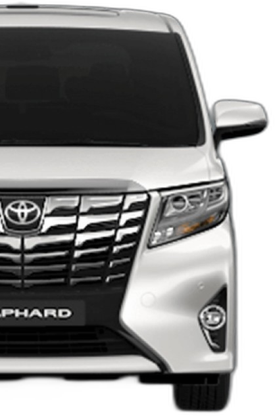
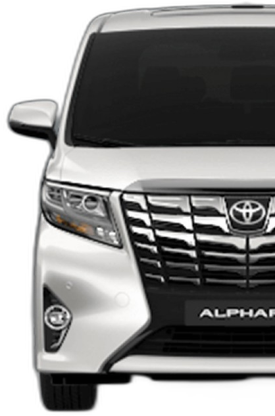
Simplify mobil list cards to image-left, big category label right
Drop the car model name, price, and CTA button from each card -- the
category (City Car, Wedding, Corporate, Employee) is now the sole,
large headline on the right half. Swap the image to the left side to
match, cropping each photo to its left half instead of right. Also
swap in a cleaner studio-shot Sigra photo.

diff --git a/src/css/components/Explore/CardExplore.css b/src/css/components/Explore/CardExplore.css
@@ -25,61 +25,9 @@
 .container-cardExplore.bg-blue{
     background-color: var(--color-blue);
 }
-.info-cardExplore{
-    position: relative;
-    z-index: 2;
-    width: 56%;
-    padding: 1.5rem 0 1.5rem 1.5rem;
-    display: flex;
-    flex-direction: column;
-    align-items: flex-start;
-    gap: 0.4rem;
-}
-.category-cardExplore{
-    background-color: rgba(255, 255, 255, 0.7);
-    color: var(--color-primary-dark);
-    font-size: 0.7rem;
-    font-weight: 700;
-    text-transform: uppercase;
-    letter-spacing: 0.06em;
-    padding: 0.3rem 0.7rem;
-    border-radius: 999px;
-}
-.info-cardExplore h3{
-    font-size: 1.35rem;
-    font-weight: 800;
-    color: var(--color-text);
-    line-height: 1.2;
-}
-.price-cardExplore{
-    font-size: 0.95rem;
-    font-weight: 700;
-    color: var(--color-text);
-}
-.price-cardExplore small{
-    font-size: 0.7rem;
-    font-weight: 500;
-    color: var(--color-text-muted);
-}
-.info-cardExplore button{
-    margin-top: 0.4rem;
-    background-color: var(--color-primary);
-    color: white;
-    border: none;
-    padding: 0.55rem 1.25rem;
-    border-radius: 999px;
-    font-weight: 600;
-    font-size: 0.85rem;
-    font-family: inherit;
-    cursor: pointer;
-    transition: background-color 0.2s ease;
-}
-.info-cardExplore button:hover{
-    background-color: var(--color-primary-dark);
-}
 .image-cardExplore{
     position: absolute;
-    right: 0;
+    left: 0;
     top: 0;
     bottom: 0;
     width: 48%;
@@ -89,24 +37,35 @@
     width: 100%;
     height: 100%;
     object-fit: contain;
-    object-position: right center;
+    object-position: left center;
+}
+.info-cardExplore{
+    position: relative;
+    z-index: 2;
+    width: 100%;
+    padding: 1.5rem 1.75rem;
+    display: flex;
+    justify-content: flex-end;
+}
+.category-cardExplore{
+    font-size: 1.6rem;
+    font-weight: 800;
+    color: var(--color-text);
+    line-height: 1.15;
+    text-align: right;
 }
 
 @media screen and (max-width:640px){
     .container-cardExplore{
         min-height: 190px;
     }
-    .info-cardExplore{
-        width: 62%;
-        padding: 1.1rem 0 1.1rem 1.1rem;
-    }
-    .info-cardExplore h3{
-        font-size: 1.1rem;
-    }
     .image-cardExplore{
         width: 44%;
     }
-    .image-cardExplore img{
-        height: 85%;
+    .info-cardExplore{
+        padding: 1.1rem 1.25rem;
+    }
+    .category-cardExplore{
+        font-size: 1.25rem;
     }
 }

diff --git a/src/components/Explore/Explore.tsx b/src/components/Explore/Explore.tsx
@@ -6,10 +6,10 @@ import alphard from '../../assets/alphard.png'
 import bmw from '../../assets/bmw.png'
 
 const CARS = [
-  { category: 'City Car', name: 'Daihatsu Sigra', pict: sigra, price: 'Rp350rb', bg: 'peach' as const },
-  { category: 'Wedding', name: 'BMW 5 Series', pict: bmw, price: 'Rp1,5jt', bg: 'pink' as const },
-  { category: 'Corporate', name: 'Toyota Alphard', pict: alphard, price: 'Rp1,2jt', bg: 'gray' as const },
-  { category: 'Employee', name: 'BYD Seal', pict: bydSeal, price: 'Rp900rb', bg: 'blue' as const },
+  { category: 'City Car', name: 'Daihatsu Sigra', pict: sigra, bg: 'peach' as const },
+  { category: 'Wedding', name: 'BMW 5 Series', pict: bmw, bg: 'pink' as const },
+  { category: 'Corporate', name: 'Toyota Alphard', pict: alphard, bg: 'gray' as const },
+  { category: 'Employee', name: 'BYD Seal', pict: bydSeal, bg: 'blue' as const },
 ]
 
 function Explore() {
@@ -27,7 +27,6 @@ function Explore() {
               category={car.category}
               name={car.name}
               CarPict={car.pict}
-              Price={car.price}
               bgVariant={car.bg}
             />
           ))}

diff --git a/src/components/Explore/CardExplore.tsx b/src/components/Explore/CardExplore.tsx
@@ -4,23 +4,17 @@ interface CardExploreProps {
   CarPict: string
   category: string
   name: string
-  Price: string
   bgVariant: 'peach' | 'pink' | 'gray' | 'blue'
 }
 
 function CardExplore(props: CardExploreProps) {
   return (
     <div className={`container-cardExplore bg-${props.bgVariant}`}>
-      <div className="info-cardExplore">
-        <span className="category-cardExplore">{props.category}</span>
-        <h3>{props.name}</h3>
-        <span className="price-cardExplore">
-          {props.Price}<small> /hari</small>
-        </span>
-        <button type="button">Sewa</button>
-      </div>
       <div className="image-cardExplore">
         <img src={props.CarPict} alt={props.name} />
+      </div>
+      <div className="info-cardExplore">
+        <span className="category-cardExplore">{props.category}</span>
       </div>
     </div>
   )
